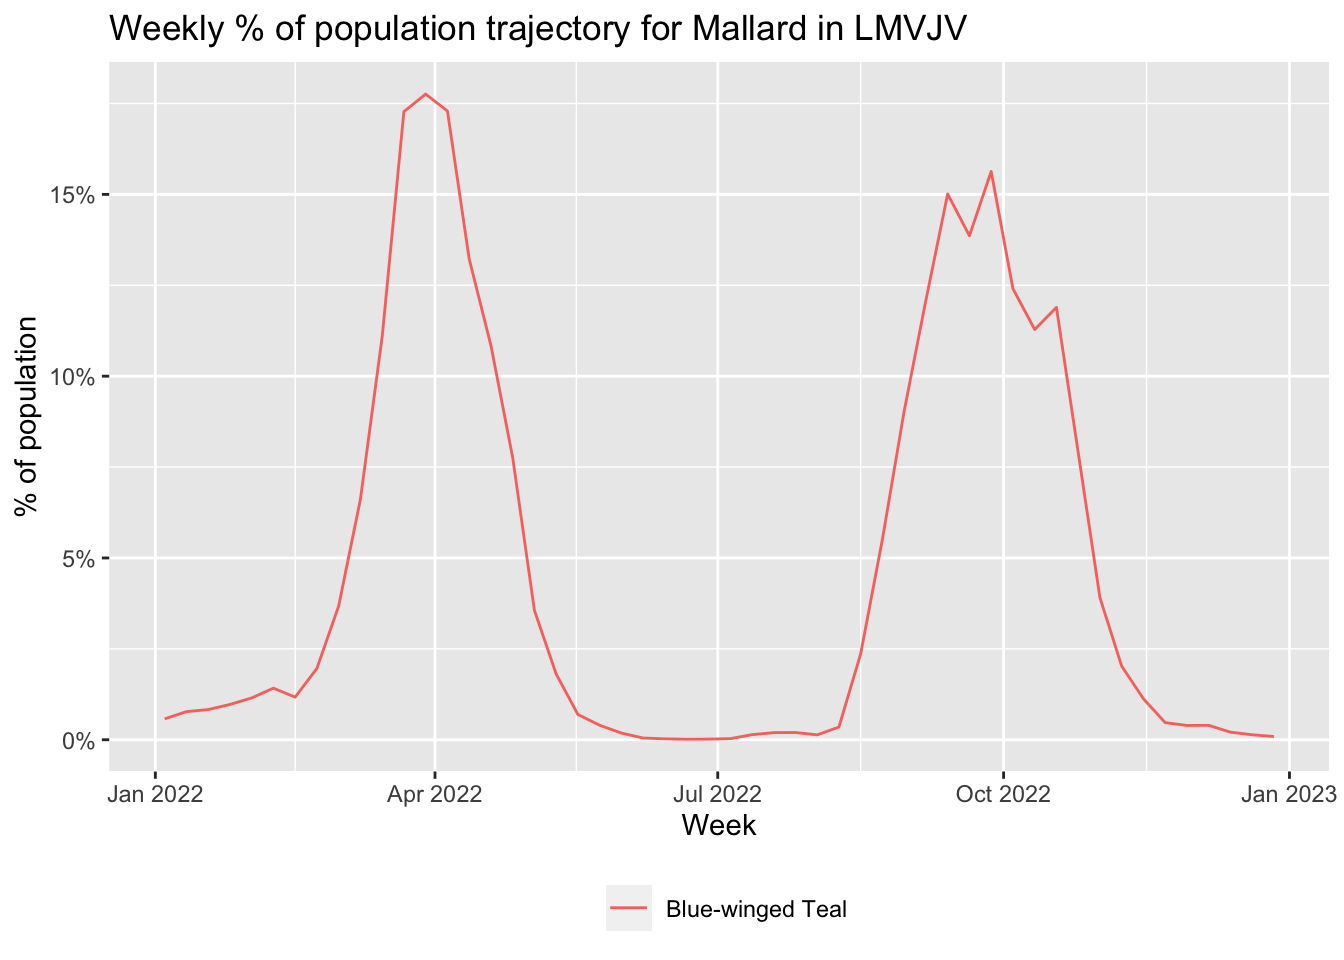
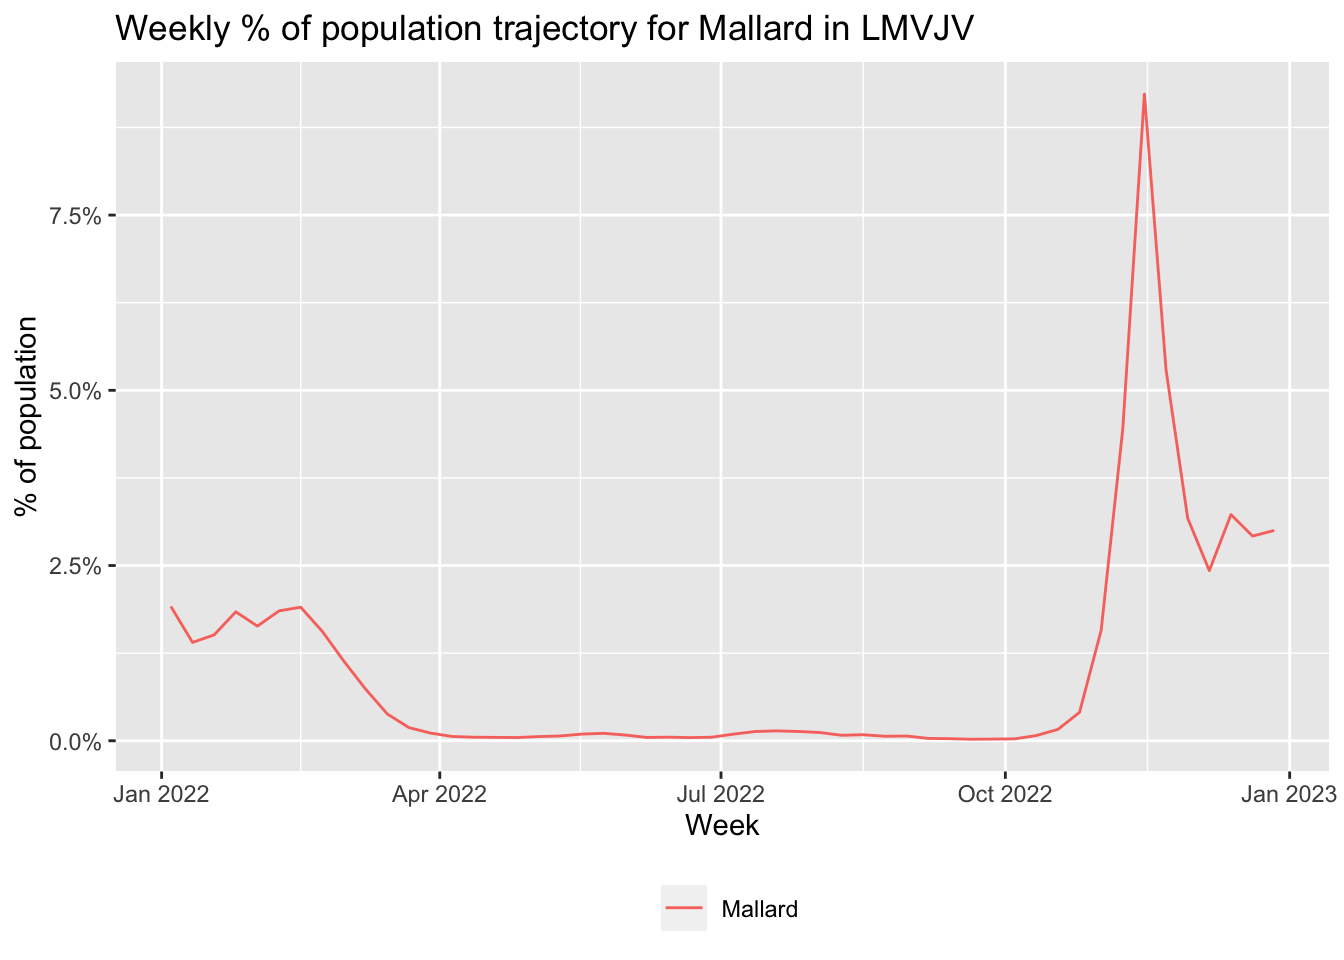
typo

diff --git a/docs/status.html b/docs/status.html
@@ -376,6 +376,19 @@ Solution
 <li><strong>Relative abundance</strong>: the expected relative abundance of a species, computed as the product of the probability of occurrence and the count conditional on occurrence. In addition to the median relative abundance, upper and lower confidence intervals (CIs) are provided, defined at the 10th and 90th quantile of relative abundance, respectively. <strong>This is what’s displayed by the maps on the Status and Trends website</strong>.</li>
 <li><strong>Proportion of population</strong>: the proportion of the total relative abundance within each cell. This is a derived product calculated by dividing each cell value in the relative abundance raster by the sum of all cell values.</li>
 </ul>
+<div class="callout callout-style-default callout-tip callout-titled">
+<div class="callout-header d-flex align-content-center">
+<div class="callout-icon-container">
+<i class="callout-icon"></i>
+</div>
+<div class="callout-title-container flex-fill">
+Tip
+</div>
+</div>
+<div class="callout-body-container callout-body">
+<p>Relative abundance estimates are impacted by detection rates, which can vary between species and between seasons for the same species. As a result, when comparing eBird Status and Trends data across species or seasons, it’s critical to always use the percent of population layers, which have been standardized by dividing each cell value by the total relative abundance across all cells.</p>
+</div>
+</div>
 <p>All predictions are made on a standard 3 km x 3 km global grid; however, for convenience lower resolution GeoTIFFs are also provided, which are typically much faster to work with. The three available resolutions are:</p>
 <ul>
 <li>High resolution (3km): the native 3 km resolution data</li>
@@ -468,7 +481,7 @@ Exercise
 </div>
 </div>
 <div class="callout callout-style-default callout-note no-icon callout-titled">
-<div class="callout-header d-flex align-content-center" data-bs-toggle="collapse" data-bs-target=".callout-7-contents" aria-controls="callout-7" aria-expanded="false" aria-label="Toggle callout">
+<div class="callout-header d-flex align-content-center" data-bs-toggle="collapse" data-bs-target=".callout-8-contents" aria-controls="callout-8" aria-expanded="false" aria-label="Toggle callout">
 <div class="callout-icon-container">
 <i class="callout-icon no-icon"></i>
 </div>
@@ -477,7 +490,7 @@ Solution
 </div>
 <div class="callout-btn-toggle d-inline-block border-0 py-1 ps-1 pe-0 float-end"><i class="callout-toggle"></i></div>
 </div>
-<div id="callout-7" class="callout-7-contents callout-collapse collapse">
+<div id="callout-8" class="callout-8-contents callout-collapse collapse">
 <div class="callout-body-container callout-body">
 <div class="cell" data-layout-align="center">
 <div class="sourceCode cell-code" id="cb11"><pre class="sourceCode r code-with-copy"><code class="sourceCode r"><span id="cb11-1"><a href="#cb11-1" aria-hidden="true" tabindex="-1"></a>prop_pop <span class="ot">&lt;-</span> <span class="fu">load_raster</span>(<span class="st">"buwtea"</span>, </span>
@@ -652,7 +665,7 @@ Checkpoint
 </ol>
 <section id="sec-status-applications-trajectories" class="level3" data-number="1.6.1">
 <h3 data-number="1.6.1" class="anchored" data-anchor-id="sec-status-applications-trajectories"><span class="header-section-number">1.6.1</span> Trajectories</h3>
-<p>In this application, we’ll look at the change in populations for two species over the course of the year in the LMVJV. We’ll consider Blue-winged Teal and Canvasback, two migrant species that winter in the region. When comparing multiple species, or a single species between different seasons, it’s important to use the proportion of population rather than relative abundance to mitigate the impact of differences in detectability between seasons and species.</p>
+<p>In this application, we’ll look at the change in populations for two species over the course of the year in the LMVJV. We’ll consider Blue-winged Teal and Canvasback, two migrant species that winter in the region. When comparing multiple species, it’s important to use the proportion of population rather than relative abundance to mitigate the impact of differences in detectability between species.</p>
 <p>Let’s start by downloading data for Canvasback (recall we already downloaded the Blue-winged Teal data) and loading the weekly proportion of population cubes for both species. For the remainder of this workshop, we’ll work with the 27 km resolution data to ensure we can download and process data quickly. Below we use <code>pattern = "_27km_"</code> to instruct <code>ebirdst_download_status()</code> to only download the 27 km estimates. In real-world applications, you will likely want to use the full 3 km resolution data for higher precision.</p>
 <div class="cell" data-layout-align="center">
 <div class="sourceCode cell-code" id="cb20"><pre class="sourceCode r code-with-copy"><code class="sourceCode r"><span id="cb20-1"><a href="#cb20-1" aria-hidden="true" tabindex="-1"></a><span class="co"># download data for canvasback</span></span>
@@ -723,7 +736,7 @@ Exercise
 </div>
 </div>
 <div class="callout callout-style-default callout-note no-icon callout-titled">
-<div class="callout-header d-flex align-content-center" data-bs-toggle="collapse" data-bs-target=".callout-10-contents" aria-controls="callout-10" aria-expanded="false" aria-label="Toggle callout">
+<div class="callout-header d-flex align-content-center" data-bs-toggle="collapse" data-bs-target=".callout-11-contents" aria-controls="callout-11" aria-expanded="false" aria-label="Toggle callout">
 <div class="callout-icon-container">
 <i class="callout-icon no-icon"></i>
 </div>
@@ -732,7 +745,7 @@ Solution
 </div>
 <div class="callout-btn-toggle d-inline-block border-0 py-1 ps-1 pe-0 float-end"><i class="callout-toggle"></i></div>
 </div>
-<div id="callout-10" class="callout-10-contents callout-collapse collapse">
+<div id="callout-11" class="callout-11-contents callout-collapse collapse">
 <div class="callout-body-container callout-body">
 <div class="cell" data-layout-align="center">
 <div class="sourceCode cell-code" id="cb23"><pre class="sourceCode r code-with-copy"><code class="sourceCode r"><span id="cb23-1"><a href="#cb23-1" aria-hidden="true" tabindex="-1"></a><span class="co"># download mallard data</span></span>
@@ -750,7 +763,7 @@ Solution
 <span id="cb23-13"><a href="#cb23-13" aria-hidden="true" tabindex="-1"></a>                           <span class="at">prop_pop =</span> <span class="fu">as.numeric</span>(traj_mallard[<span class="dv">1</span>, ]))</span>
 <span id="cb23-14"><a href="#cb23-14" aria-hidden="true" tabindex="-1"></a></span>
 <span id="cb23-15"><a href="#cb23-15" aria-hidden="true" tabindex="-1"></a><span class="co"># plot the trajectory</span></span>
-<span id="cb23-16"><a href="#cb23-16" aria-hidden="true" tabindex="-1"></a><span class="fu">ggplot</span>(traj_buwtea, <span class="fu">aes</span>(<span class="at">x =</span> week, <span class="at">y =</span> prop_pop, <span class="at">color =</span> species)) <span class="sc">+</span></span>
+<span id="cb23-16"><a href="#cb23-16" aria-hidden="true" tabindex="-1"></a><span class="fu">ggplot</span>(traj_mallard, <span class="fu">aes</span>(<span class="at">x =</span> week, <span class="at">y =</span> prop_pop, <span class="at">color =</span> species)) <span class="sc">+</span></span>
 <span id="cb23-17"><a href="#cb23-17" aria-hidden="true" tabindex="-1"></a>  <span class="fu">geom_line</span>() <span class="sc">+</span></span>
 <span id="cb23-18"><a href="#cb23-18" aria-hidden="true" tabindex="-1"></a>  <span class="fu">scale_y_continuous</span>(<span class="at">labels =</span> scales<span class="sc">::</span>percent) <span class="sc">+</span></span>
 <span id="cb23-19"><a href="#cb23-19" aria-hidden="true" tabindex="-1"></a>  <span class="fu">labs</span>(<span class="at">x =</span> <span class="st">"Week"</span>, </span>
@@ -773,19 +786,6 @@ Solution
 <section id="sec-status-applications-prioritization" class="level3" data-number="1.6.2">
 <h3 data-number="1.6.2" class="anchored" data-anchor-id="sec-status-applications-prioritization"><span class="header-section-number">1.6.2</span> Prioritization</h3>
 <p>For the next application, we’ll perform a multi-species site prioritization exercise, identifying important non-breeding sites for a set of four species in the LMVJV: Blue-winged Teal, Canvasback, Mallard, and Virginia Rail. Let’s start by downloading data for species that require it, loading the seasonal proportion of population rasters, cropping to the LMVJV, and combining the rasters across species.</p>
-<div class="callout callout-style-default callout-tip callout-titled">
-<div class="callout-header d-flex align-content-center">
-<div class="callout-icon-container">
-<i class="callout-icon"></i>
-</div>
-<div class="callout-title-container flex-fill">
-Tip
-</div>
-</div>
-<div class="callout-body-container callout-body">
-<p>Relative abundance estimates are impacted by detection rates, which can vary between species. As a results, when comparing eBird Status and Trends data across species, it’s critical to always use the percent of population layers, which have been standardized by dividing each cell value by the total relative abundance across all cells.</p>
-</div>
-</div>
 <div class="cell" data-layout-align="center">
 <div class="sourceCode cell-code" id="cb24"><pre class="sourceCode r code-with-copy"><code class="sourceCode r"><span id="cb24-1"><a href="#cb24-1" aria-hidden="true" tabindex="-1"></a>species_list <span class="ot">&lt;-</span> <span class="fu">c</span>(<span class="st">"buwtea"</span>, <span class="st">"canvas"</span>, <span class="st">"mallard"</span>, <span class="st">"virrai"</span>)</span>
 <span id="cb24-2"><a href="#cb24-2" aria-hidden="true" tabindex="-1"></a>proportion_population <span class="ot">&lt;-</span> <span class="fu">list</span>()</span>
